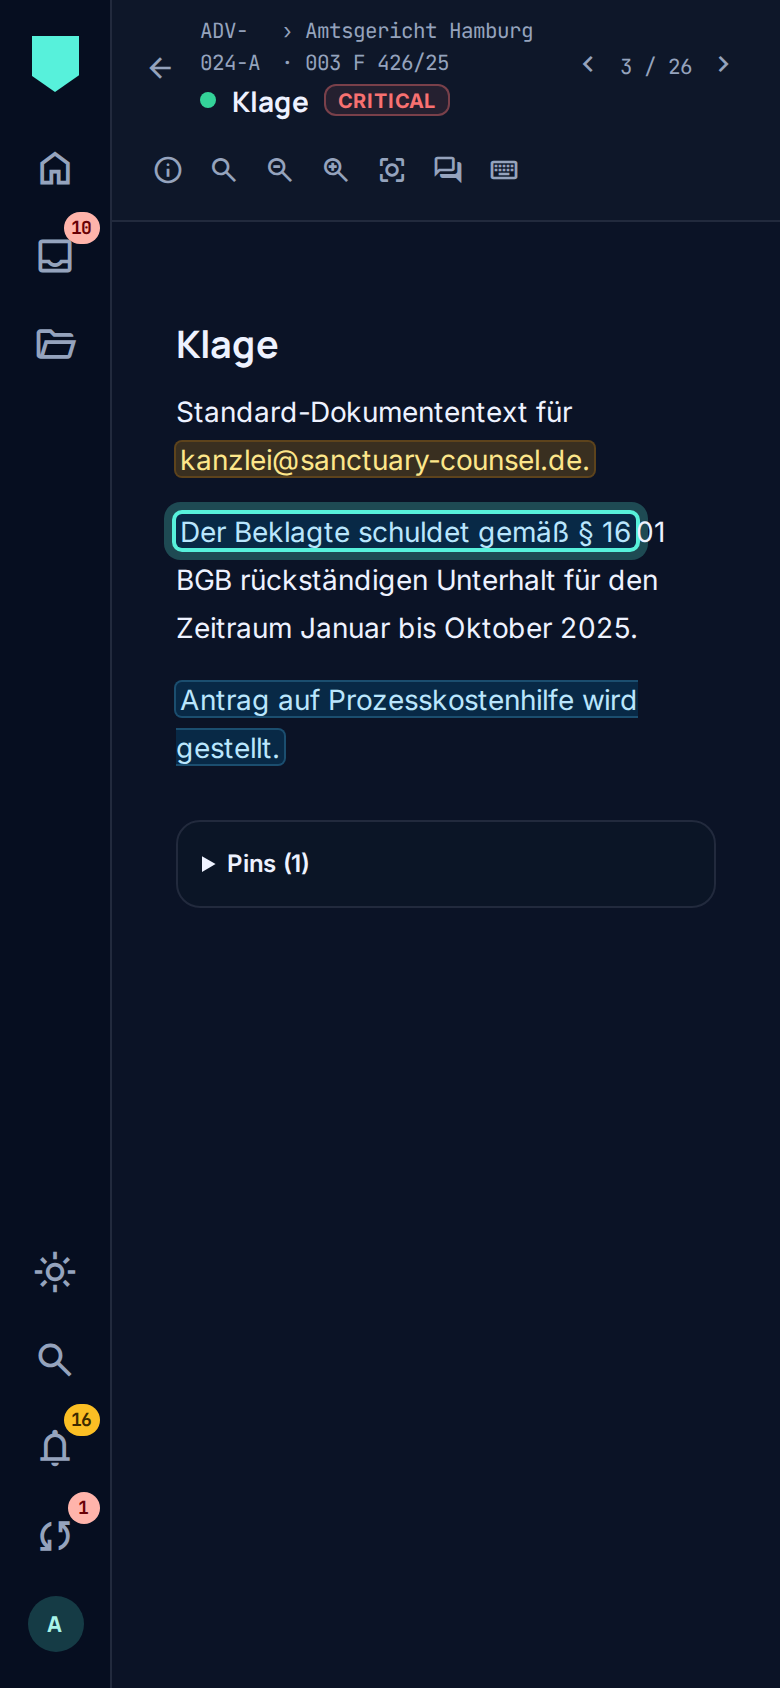
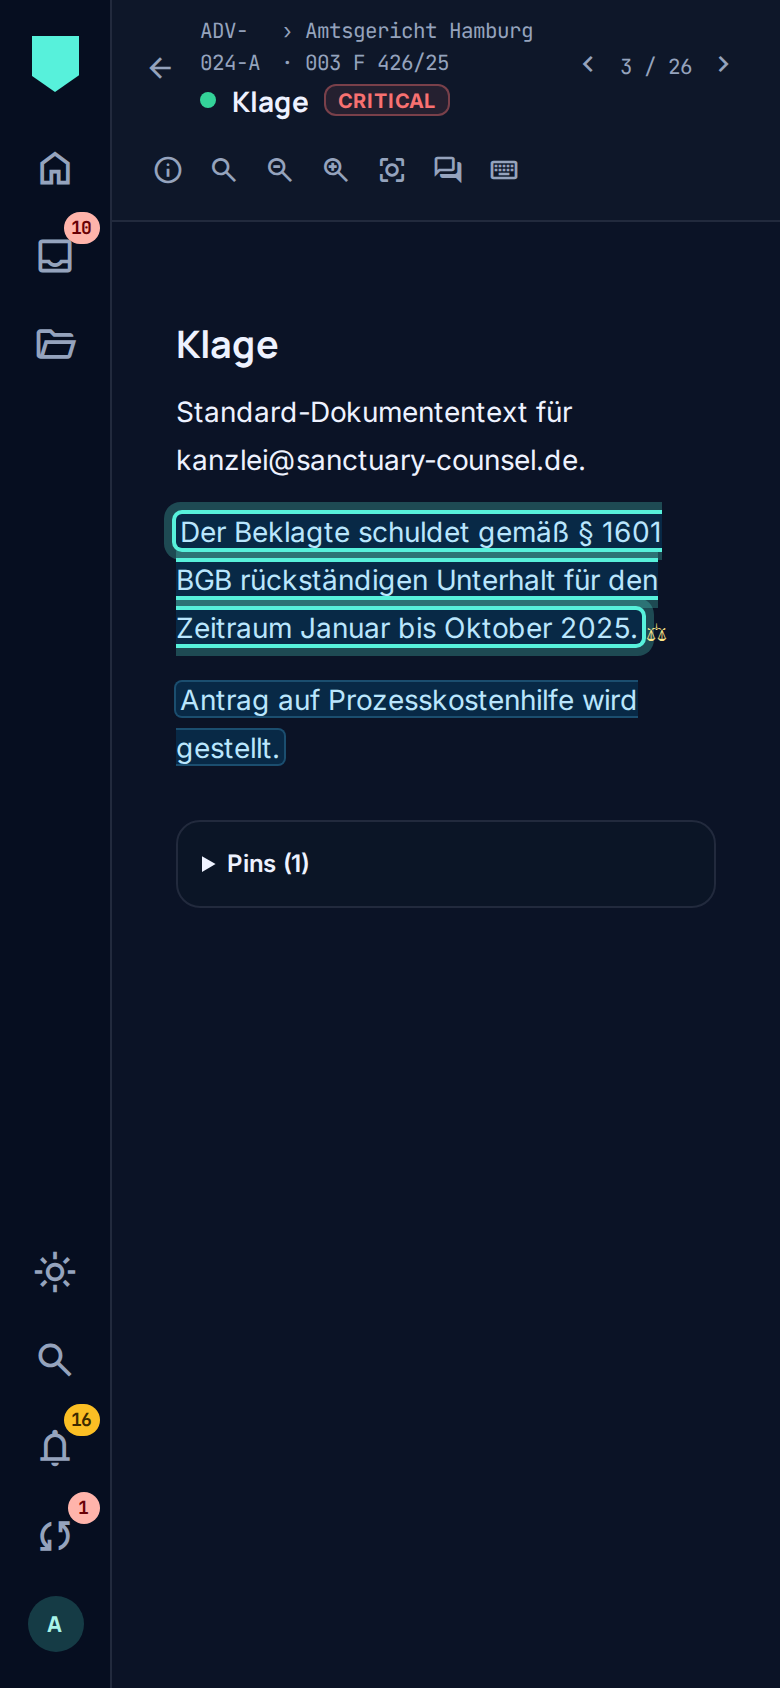
fix: key-passage highlights no longer end mid-word
find_text_offsets mapped normalized positions back with a walker that
counted every whitespace run twice, so a normalized or fuzzy match
started too early, and the end was start + len(text). Build an explicit
normalized-to-original index map instead, take the end from it, and snap
fuzzy spans to word boundaries.

The demo's claim excerpt for the Klage was not a substring of its key
passage (trailing period), so it was drawn as a second, crossing
highlight and the passage never linked to its claim. Make it verbatim.

Closes #466

Claude-Session: https://claude.ai/code/session_01SdPTrMH1joyDRTTRj6n9Ym

Changed region(s): [[0.2154, 0.2464, 0.8615, 0.4005]]

diff --git a/app/services/text_offsets.py b/app/services/text_offsets.py
@@ -10,32 +10,49 @@ Three passes:
 2. normalized substring — whitespace collapsed, curly quotes folded (must be unique)
 3. fuzzy windowed difflib ratio ≥ 0.85 (only for text ≥ 20 chars)
 
-Returns ``(start, end)`` byte offsets in the original ``content`` string, or
+Returns ``(start, end)`` character offsets in the original ``content`` string, or
 ``None`` when the passage cannot be confidently located.
 """
 
 from __future__ import annotations
 
 import difflib
-import re
+
+_QUOTES = str.maketrans({"‘": "'", "’": "'", "“": '"', "”": '"'})
 
 
-def _normalize(s: str) -> str:
-    s = s.replace("‘", "'").replace("’", "'")
-    s = s.replace("“", '"').replace("”", '"')
-    return re.sub(r"\s+", " ", s).strip()
+def _project(s: str) -> tuple[str, list[int]]:
+    """Normalize ``s`` (quotes folded, whitespace runs collapsed, ends
+    stripped) and return it with, for every normalized character, its offset
+    in ``s``."""
+    chars: list[str] = []
+    origin: list[int] = []
+    pending_space = False
+    for i, ch in enumerate(s.translate(_QUOTES)):
+        if ch.isspace():
+            pending_space = bool(chars)
+            continue
+        if pending_space:
+            chars.append(" ")
+            origin.append(i - 1)
+            pending_space = False
+        chars.append(ch)
+        origin.append(i)
+    return "".join(chars), origin
 
 
-def _norm_to_orig(content: str, norm_idx: int) -> int:
-    """Map a position in the normalized projection of ``content`` back to
-    its offset in the original ``content`` string."""
-    norm_walked = 0
-    for m in re.finditer(r"\S+|\s+", content):
-        token = _normalize(m.group())
-        if norm_walked + len(token) > norm_idx:
-            return m.start()
-        norm_walked += len(token) + 1  # +1 for collapsed space
-    return len(content)
+def _snap_to_words(content: str, start: int, end: int) -> tuple[int, int]:
+    """Widen a span so it does not begin or end inside a word, then drop
+    whitespace at its edges."""
+    while start > 0 and content[start - 1].isalnum() and content[start].isalnum():
+        start -= 1
+    while end < len(content) and content[end - 1].isalnum() and content[end].isalnum():
+        end += 1
+    while start < end and content[start].isspace():
+        start += 1
+    while end > start and content[end - 1].isspace():
+        end -= 1
+    return start, end
 
 
 def find_text_offsets(content: str, text: str) -> tuple[int, int] | None:
@@ -49,13 +66,12 @@ def find_text_offsets(content: str, text: str) -> tuple[int, int] | None:
         return idx, idx + len(text)
 
     # Pass 2 — normalized, unique
-    norm_text = _normalize(text)
-    norm_content = _normalize(content)
+    norm_text, _ = _project(text)
+    norm_content, origin = _project(content)
     if norm_text:
         norm_idx = norm_content.find(norm_text)
         if norm_idx != -1 and norm_content.find(norm_text, norm_idx + 1) == -1:
-            orig_idx = _norm_to_orig(content, norm_idx)
-            return orig_idx, min(orig_idx + len(text), len(content))
+            return origin[norm_idx], origin[norm_idx + len(norm_text) - 1] + 1
 
     # Pass 3 — fuzzy windowed ratio (paraphrased / punctuation-shifted quotes)
     target_len = len(norm_text)
@@ -73,7 +89,8 @@ def find_text_offsets(content: str, text: str) -> tuple[int, int] | None:
                 best_ratio = ratio
                 best_pos = i
         if best_ratio >= 0.85 and best_pos >= 0:
-            orig_idx = _norm_to_orig(content, best_pos)
-            return orig_idx, min(orig_idx + len(text), len(content))
+            return _snap_to_words(
+                content, origin[best_pos], origin[best_pos + target_len - 1] + 1
+            )
 
     return None

diff --git a/tests/unit/test_text_offsets.py b/tests/unit/test_text_offsets.py
@@ -54,3 +54,28 @@ def test_fuzzy_match_for_punctuation_shifted_quote():
 @pytest.mark.unit
 def test_unrelated_text_returns_none():
     assert find_text_offsets("alpha beta gamma delta epsilon", "xyz123 qrs789") is None
+
+
+@pytest.mark.unit
+def test_normalized_span_covers_exactly_the_match_after_whitespace_runs():
+    # Whitespace before the match used to shift the mapped start earlier.
+    content = "Kopf\n\n  Zeile   eins\n\nDer  Beklagte\tschuldet   Unterhalt. Ende"
+    text = "Der Beklagte schuldet Unterhalt."
+    start, end = find_text_offsets(content, text)
+    assert content[start:end] == "Der  Beklagte\tschuldet   Unterhalt."
+
+
+@pytest.mark.unit
+def test_fuzzy_match_never_ends_inside_a_word():
+    content = (
+        "kanzlei@sanctuary-counsel.de.\n\n"
+        "Der Beklagte schuldet gemäß § 1601 BGB rückständigen Unterhalt für den "
+        "Zeitraum Januar bis Oktober 2025."
+    )
+    # Not verbatim (trailing period), so it falls through to the fuzzy pass.
+    text = "Der Beklagte schuldet gemäß § 1601 BGB rückständigen Unterhalt."
+    start, end = find_text_offsets(content, text)
+    assert content[start:].startswith("Der Beklagte")
+    assert not content[end - 1].isalnum() or not content[end].isalnum()
+    assert "1601" in content[start:end]
+    assert content[start:end] == text.rstrip(".")

diff --git a/scripts/seed_dummy_data.py b/scripts/seed_dummy_data.py
@@ -2626,7 +2626,7 @@ _add_claim_evidence(
             claim_id=cl2.id,
             document_id=p8_klage.id,
             role=ClaimEvidenceRole.SUPPORTS,
-            excerpt="Der Beklagte schuldet gemäß § 1601 BGB rückständigen Unterhalt.",
+            excerpt="Der Beklagte schuldet gemäß § 1601 BGB rückständigen Unterhalt",
             confidence=RelationshipConfidence.USER_CONFIRMED,
         ),
         ClaimEvidence(
